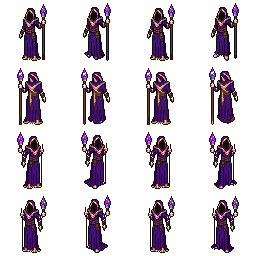
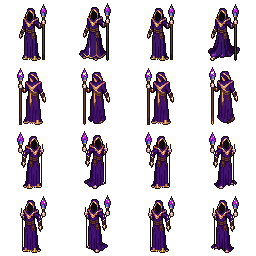
A mascara do passo sobe ao quadril, e passa a ser por classe
O topo da faixa redesenhada era uma constante so, em y=50, e o 50 existe por
causa do escudo do Knight: subir devolve o escudo a regiao redesenhada e o
inpaint o perde. O beco e dele — Feiticeiro, Arqueiro e Assassino nao tem
escudo e pagavam um preco que nao era deles. TOPO_PERNAS agora e 50 no Knight
e 38 nos outros tres, como o LADO_ARMA ja era por classe.

Medido no sul do Feiticeiro, contra a pose parada: o redesenho vai de y=50
para y=38 (11 -> 23 linhas, 181 -> 434 px) e a silhueta de 28 para 32 px de
largura. Paleta em 81 cores, chao ainda em y=60.

Efeito colateral nao previsto: a barra da veste tem 17 px de dourado na pose
parada, e a mascara de tornozelo apagava os 17 a cada passo. A nova mantem 21.

SO_DIRECOES entra junto e fez este teste custar 2 geracoes em vez de 6. E
tambem a peca que faltava para escopar o cajado que boia na morte do
Feiticeiro a leste e oeste, sem regerar o sul e o norte, que estao bons.

O que fica faltando: so o SUL foi regerado, entao as direcoes do Feiticeiro
nao combinam entre si (4 geracoes fecham a classe). E o Feiticeiro era a
classe errada para testar a hipotese do Medivia — manto ate o chao, sem perna
visivel; quem a testa e o Arqueiro. Nao foi visto em tela.

Changed region(s): [[0.8125, 0.0, 0.9375, 0.25], [0.3125, 0.125, 0.4375, 0.25]]

diff --git a/docs/HANDOFF.md b/docs/HANDOFF.md
@@ -7,22 +7,50 @@
 referências que eu procuro para o nosso game"*. Isso decide três discussões de
 uma vez — ver o bloco de 11/08 no [`HISTORICO.md`](./HISTORICO.md).
 
-### 🎯 A PRÓXIMA COISA, e ela está decidida e orçada
+### ✅ A MÁSCARA SUBIU ATÉ O QUADRIL — feito no sul do Feiticeiro, 2 gerações
 
-**Regerar o passo com a máscara subindo até o QUADRIL** (`y ≈ 38` em vez de 50),
-**por classe**.
+**O mecanismo funciona.** `TOPO_PERNAS` em `tools/pixellab/gerar-classe.mjs` é
+agora **por classe**, como o `LADO_ARMA` já era: `38` (quadril) para Feiticeiro,
+Arqueiro e Assassino, e **`50` para o Knight, que não pode subir** — o escudo
+mora acima e o `inpaint` o perde. É o beco nº 4, e ele continua de pé nele.
 
-O porquê: em Medivia a perna inteira se move, do quadril para baixo. A nossa
-`FAIXA_PERNAS` redesenha só de `y = 50` — **14 px de 58**, pé e canela. É o teto
-da caminhada, e é a razão de nem os 4 quadros nem a sincronia terem bastado.
+Medido no sul do Feiticeiro, contra a pose parada:
 
-A máscara está em 50 por causa do **escudo do Knight**, que se perde se ela subir
-(beco documentado). ⚠ Mas isso é problema **dele** — Feiticeiro e Arqueiro não
-têm escudo. É a mesma lição do lado da arma, que também virou por classe.
+| | redesenha a partir de | linhas | px mudados | largura | cores |
+|---|---|---|---|---|---|
+| máscara antiga (y=50) | y=50 | 11 | 181 | 28 | 79 |
+| **máscara nova (y=38)** | **y=38** | **23** | **434** | **32** | 81 |
 
-**Custo: 3 gerações por classe. Começar pelo FEITICEIRO** — manto liso, sem
-escudo, sem aljava: o menor risco e o teste mais honesto de se a perna maior
-aparece. Se aparecer, seguir; se não, o limite é do modelo e para-se de gastar.
+🔴 **Sem os becos conhecidos:** a paleta ficou em 81 cores (o beco nº 1 é o pulo
+para ~1500) e o chão continua em `y=60` — o alinhamento de 11/08 não quebrou.
+
+✅ **Um ganho que não estava previsto:** a barra da veste tem **17 px de vivo
+dourado** na pose parada, e a máscara de tornozelo **apagava todos** a cada passo
+(0). A nova mantém 21. A máscara baixa não encurtava só o passo — comia o
+acabamento da veste.
+
+🔴 **MAS O FEITICEIRO ERA A CLASSE ERRADA PARA TESTAR A HIPÓTESE.** Ele foi
+escolhido por ser o menor risco (sem escudo, sem aljava) e é: o que voltou é bom
+e ficou. Só que ele usa **manto até o chão** — não tem perna visível em quadro
+nenhum. O que a máscara alta comprou nele foi a **barra da veste balançando**,
+não a perna se movendo. A hipótese do Medivia — *perna inteira, do quadril para
+baixo* — continua **sem teste de verdade**, e quem a testa é o **ARQUEIRO**, que
+tem perna à mostra.
+
+⚠ **Duas piscadas para olhar em tela**, achadas na medição do par: o `passo` tem
+21 px de dourado e o `passo2` tem **1**; e o `passo2` tem um roxo mais claro que
+os outros dois quadros não têm. Num ciclo `parado → passo → parado → passo2`,
+ornamento que só existe em metade dos quadros **pisca**. Pode não se ver a 64 px
+— mas é olhando que se sabe, não medindo.
+
+**Estado:** só o **sul** foi regerado. Norte e leste do Feiticeiro continuam com
+a máscara antiga, então **as direções não combinam entre si** — 4 gerações
+fecham a classe. Arqueiro e Assassino ainda são 6 cada.
+
+🆕 **`SO_DIRECOES=south` existe agora** no gerador, e foi o que fez este teste
+custar 2 gerações em vez de 6. ⚠ Ele também é a peça que faltava para consertar
+**o cajado que boia na morte do Feiticeiro** a leste e oeste (item 2 do "não foi
+consertado"): agora dá para escopar sem apostar o sul e o norte, que estão bons.
 
 **Depois disso**, na ordem combinada com o dono:
 1. **Outfits passo 3c** — a escolha na criação, com **paleta ampla** (aprovado)
@@ -379,7 +407,7 @@ direções.
 git pull
 npm install                 # nenhuma dependência nova foi adicionada
 npm run typecheck           # limpo nos 3 pacotes
-npm test                    # tem que dar 445 (425 shared + 20 server)
+npm test                    # 457 em 12/08 (433 shared + 24 server). Eram 445 em 09/08
 ELYSIA_DEV_ACCOUNT=suaconta VITE_DEV_ACCOUNT=suaconta npm run dev:test
 ```
 

diff --git a/docs/HISTORICO.md b/docs/HISTORICO.md
@@ -9,6 +9,63 @@ decisões de design ficaram travadas por teste.
 
 ---
 
+## 2026-08-12 — A máscara do passo sobe ao quadril, e passa a ser por classe
+
+**Onde mora:** `TOPO_PERNAS` e `direcoes()` em `tools/pixellab/gerar-classe.mjs`.
+
+**A máscara do passo virou por classe, pela mesma razão que o lado da arma já
+tinha virado.** `FAIXA_PERNAS` era uma constante só, começando em `y = 50`, e o
+50 existe por causa do **escudo do Knight**: subir devolve o escudo à região
+redesenhada e o `inpaint` o perde (beco nº 4). O que ninguém tinha notado é que
+o beco é **dele** — Feiticeiro, Arqueiro e Assassino não têm escudo, e estavam
+pagando um preço que não era deles. Agora `TOPO_PERNAS` é `50` no Knight e `38`
+nos outros três.
+
+O preço que se pagava: 50 redesenha **14 px de 58**, pé e canela. Era o teto da
+caminhada, e a razão de nem os 4 quadros nem o alinhamento pelo chão terem
+bastado — o dono continuou vendo "deslize, não caminhada". A referência do jogo
+é o **Medivia**, onde a perna inteira se move, do quadril para baixo.
+
+**Medido no sul do Feiticeiro,** contra a pose parada: o redesenho passa de
+`y=50` para `y=38` (de 11 para 23 linhas, de 181 para 434 px mudados) e a
+silhueta passa de 28 para **32 px de largura** — a veste abre para fora ao
+passo, coisa que 14 px de barra não conseguiam. A paleta ficou em **81 cores**
+(o beco nº 1 é o pulo para ~1500) e o chão continua em `y=60`.
+
+✅ **Um efeito colateral que ninguém tinha previsto:** a barra da veste tem 17 px
+de vivo dourado na pose parada, e a máscara de tornozelo **apagava os 17** a cada
+passo. A nova mantém 21. A máscara baixa não encurtava só o passo — ela comia o
+acabamento da veste, e isso estava em tela desde 10/08 sem nome.
+
+🔴 **O Feiticeiro era a classe ERRADA para testar a hipótese, e vale registrar
+por quê.** Ele foi escolhido por ser o menor risco — sem escudo, sem aljava — e
+foi mesmo: o resultado é bom e ficou. Mas ele usa **manto até o chão**, e não tem
+perna visível em quadro nenhum. O que a máscara alta comprou nele foi a **barra
+balançando**, não a perna se movendo. *Menor risco* e *melhor teste* não eram a
+mesma coisa, e o handoff de 11/08 tratou como se fossem. Quem testa a hipótese do
+Medivia é o **Arqueiro**, que tem perna à mostra.
+
+⚠ **Duas piscadas para conferir jogando:** o `passo` tem 21 px de dourado e o
+`passo2` tem 1; e o `passo2` tem um roxo claro que os outros quadros não têm. Num
+ciclo `parado → passo → parado → passo2`, ornamento presente em metade dos
+quadros pisca. Pode não se ver a 64 px — mas isso é medição dizendo onde olhar,
+não dizendo que está bom.
+
+**`SO_DIRECOES` entrou junto, e não é conveniência.** O gerador sempre rodava
+`south,north,east` de uma vez, então testar uma hipótese custava 3 gerações e
+trocava duas direções boas por outra tirada no dado. Com ele, este teste custou
+**2 gerações** (`passo` e `passo2` do sul) em vez de 6. 🔴 Ele é também a peça que
+faltava para consertar o **cajado que boia na morte do Feiticeiro** a leste e
+oeste: `SO_MORTE=1` regenerava as quatro direções, e o sul e o norte dele estão
+bons — era regerar arte boa para consertar arte ruim. `west` não é aceito de
+propósito: ele é escrito por espelhamento do leste.
+
+⚠ **Só o sul foi regerado.** Norte e leste do Feiticeiro continuam com a máscara
+antiga, então as direções **não combinam entre si** até 4 gerações fecharem a
+classe. Não foi visto em tela.
+
+---
+
 ## 2026-08-11 — O herói parou de flutuar, e a câmera parou de nascer no canto
 
 **Onde mora:** `tools/pixellab2strip.mjs` (alinhamento) · o bloco de câmera no
